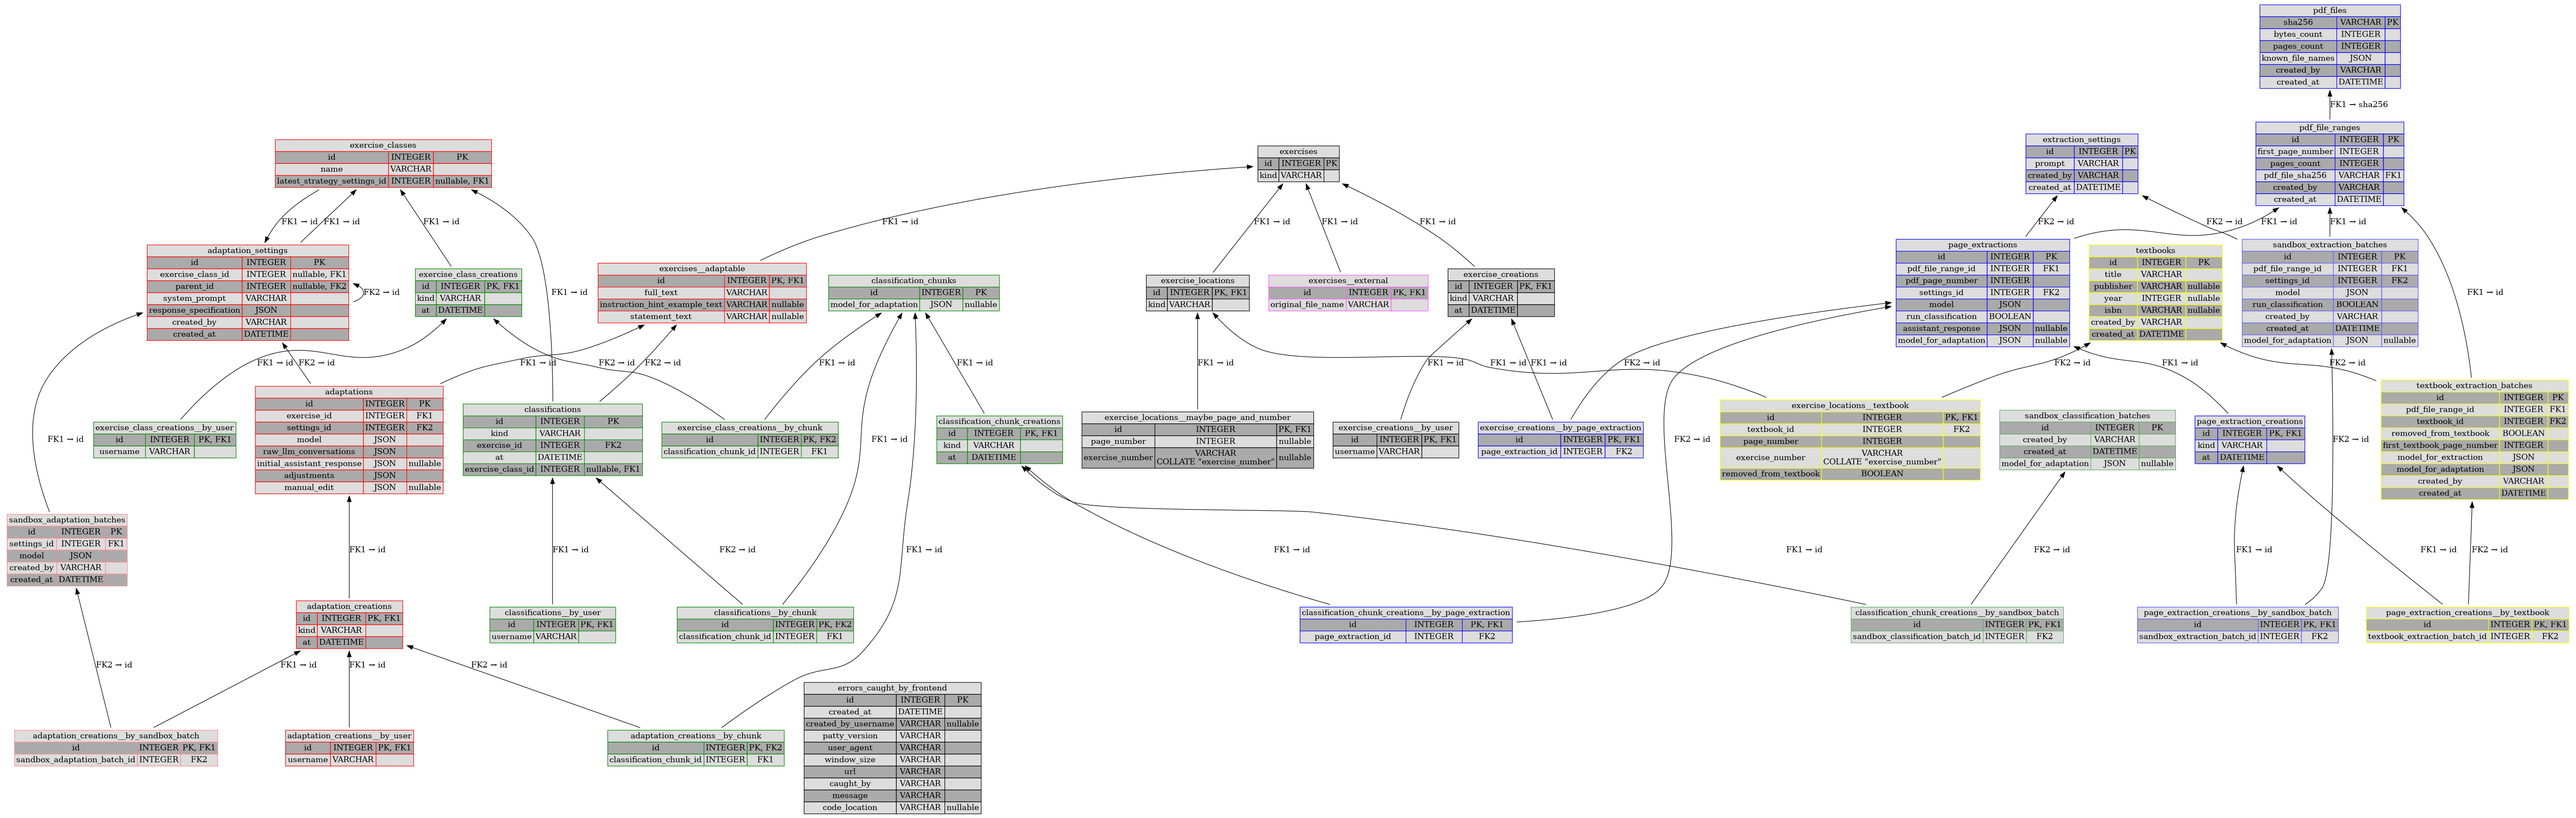
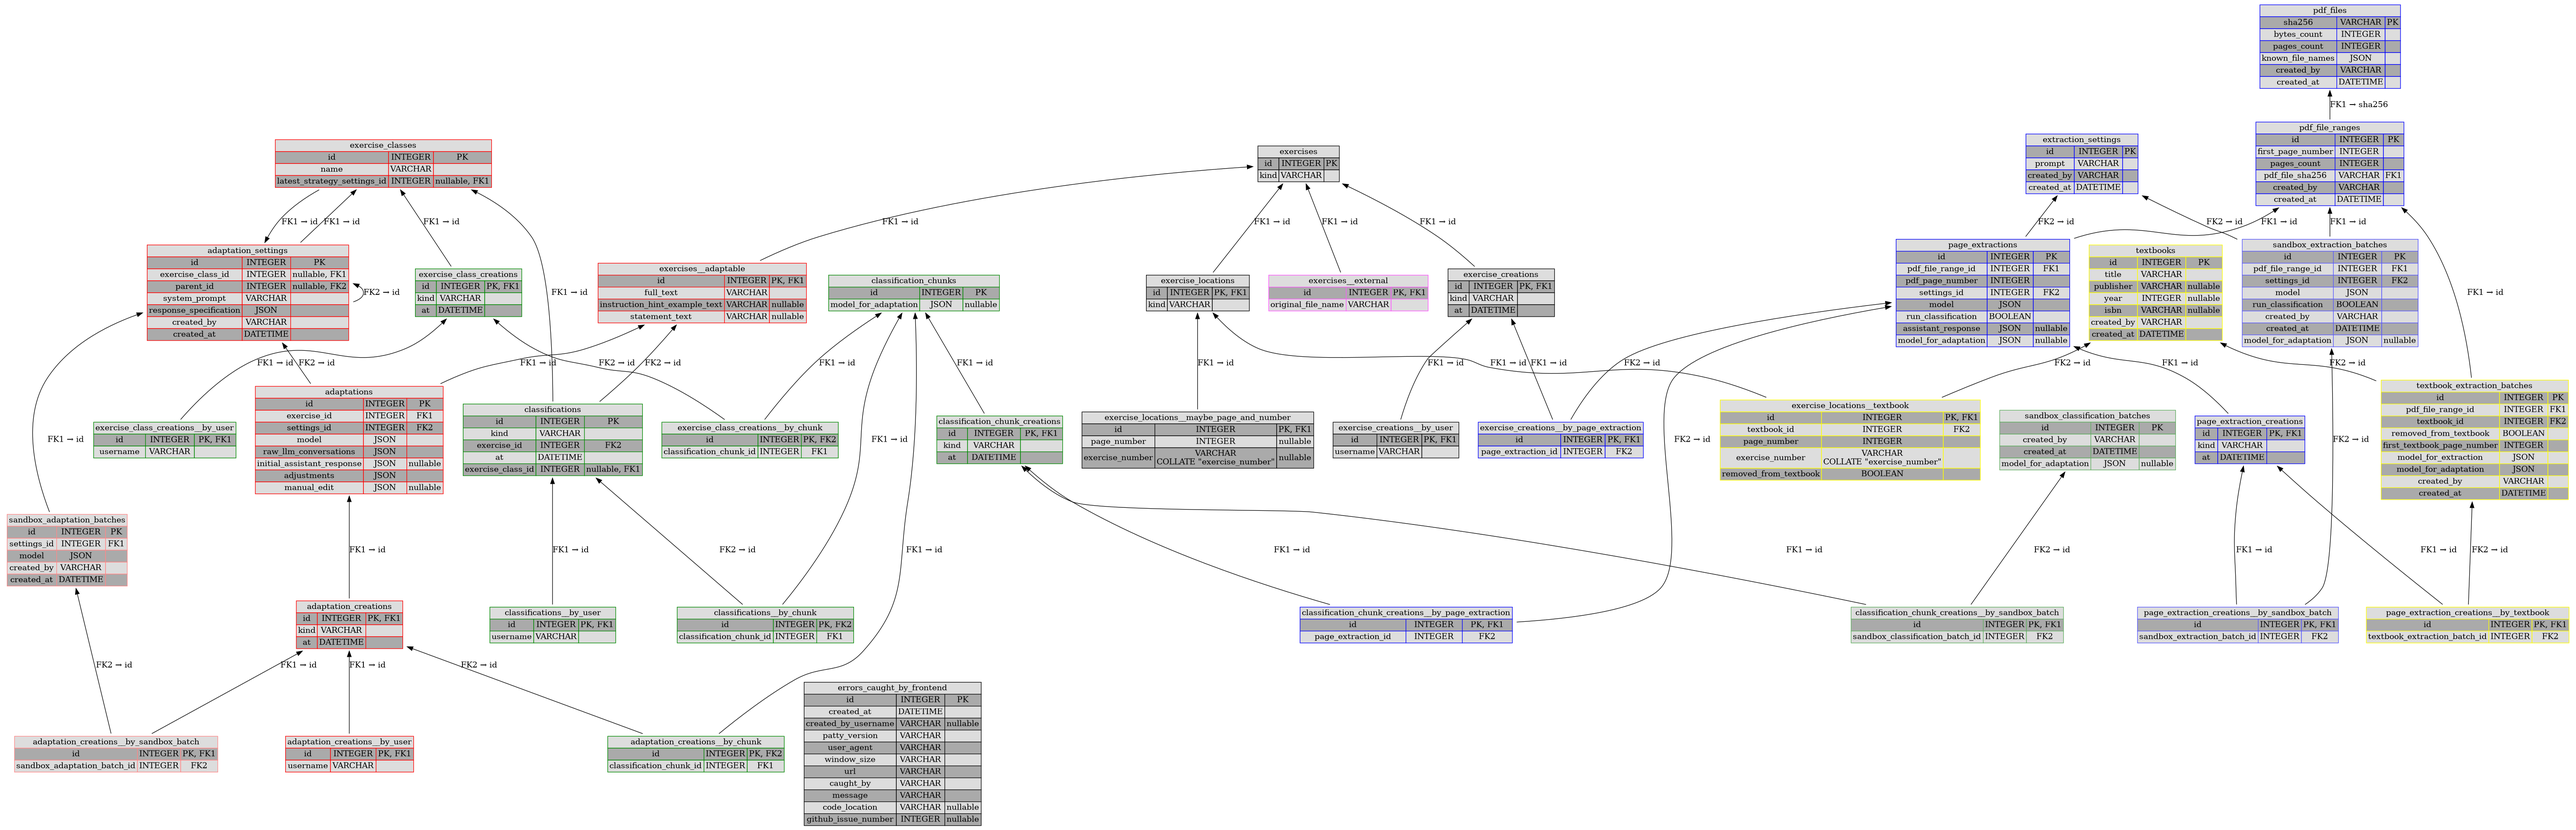
Associate a GitHub issue number to errors caught by frontend (#114)

diff --git a/frontend/src/frontend/openapi.ts b/frontend/src/frontend/openapi.ts
@@ -950,6 +950,8 @@ export interface components {
       createdAt: string
       /** Createdby */
       createdBy: string | null
+      /** Githubissuenumber */
+      githubIssueNumber: number | null
       /** Id */
       id: string
       /** Message */

diff --git a/backend/patty/data_migration.py b/backend/patty/data_migration.py
@@ -3,13 +3,46 @@ import sqlalchemy as sql
 from . import adaptation
 from . import classification
 from . import database_utils
+from . import errors
 from . import extraction
 from . import sandbox
 from . import textbooks
 
 
 def migrate(session: database_utils.Session) -> None:
+    add_github_issue_numbers(session)
     parse_all_json_fields(session)
+
+
+def add_github_issue_numbers(session: database_utils.Session) -> None:
+    known_errors: dict[tuple[str | None, int], int] = {
+        ("Sarah", 23): 99,
+        ("Sarah", 22): 99,
+        ("Sarah", 21): 99,
+        ("Vincent", 20): 77,
+        ("Vincent", 19): 77,
+        ("Vincent", 18): 77,
+        ("Sarah", 17): 99,
+        ("Sarah", 16): 99,
+        ("Sarah", 15): 99,
+        ("Sarah", 14): 99,
+        ("Sarah", 13): 99,
+        ("Elise", 12): 103,
+        ("Elise", 11): 103,
+        ("Elise", 10): 103,
+        ("Elise", 9): 103,
+        ("Elise", 8): 103,
+        ("Elise", 7): 103,
+        ("Elise", 6): 103,
+        ("Elise", 5): 103,
+        ("Elise", 4): 103,
+        ("Sarah", 3): 99,
+        ("Sarah", 2): 96,
+        ("Vincent", 1): 77,
+    }
+
+    for error in session.execute(sql.select(errors.ErrorCaughtByFrontend)).scalars():
+        error.github_issue_number = known_errors.get((error.created_by_username, error.id))
 
 
 def parse_all_json_fields(session: database_utils.Session) -> None:

diff --git a/backend/patty/errors/api_router.py b/backend/patty/errors/api_router.py
@@ -67,6 +67,7 @@ class GetErrorsCaughtByFrontendResponse(ApiModel):
         caught_by: str
         message: str
         code_location: str | None
+        github_issue_number: int | None
 
     errors: list[Error]
 
@@ -86,6 +87,7 @@ def retrieve_errors(session: SessionDependable) -> GetErrorsCaughtByFrontendResp
                 caught_by=error.caught_by,
                 message=error.message,
                 code_location=error.code_location,
+                github_issue_number=error.github_issue_number,
             )
             for error in session.execute(sql.select(ErrorCaughtByFrontend).order_by(-ErrorCaughtByFrontend.id))
             .scalars()

diff --git a/backend/patty/migrations/versions/60fe45b075e7_dev.py b/backend/patty/migrations/versions/60fe45b075e7_dev.py
@@ -1,0 +1,16 @@
+from typing import Sequence, Union
+
+from alembic import op
+import sqlalchemy as sa
+
+
+revision: str = "60fe45b075e7"
+down_revision: Union[str, None] = "0311b64d31be"
+branch_labels: Union[str, Sequence[str], None] = None
+depends_on: Union[str, Sequence[str], None] = None
+
+
+def upgrade() -> None:
+    # ### commands auto generated by Alembic - please adjust! ###
+    op.add_column("errors_caught_by_frontend", sa.Column("github_issue_number", sa.Integer(), nullable=True))
+    # ### end Alembic commands ###

diff --git a/backend/patty/errors/orm_models.py b/backend/patty/errors/orm_models.py
@@ -49,5 +49,7 @@ class ErrorCaughtByFrontend(OrmBase):
     message: orm.Mapped[str]
     code_location: orm.Mapped[str | None]
 
+    github_issue_number: orm.Mapped[int | None]
+
 
 annotate_new_tables("errors")
